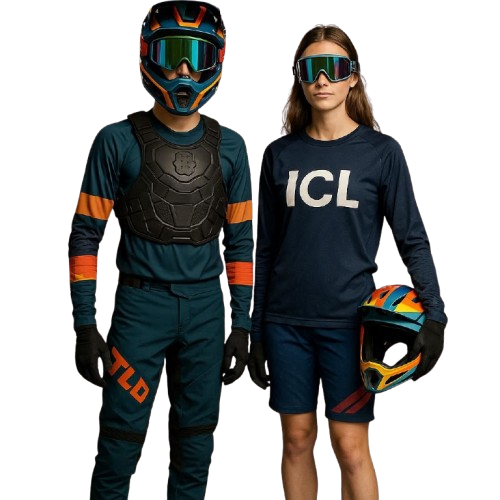
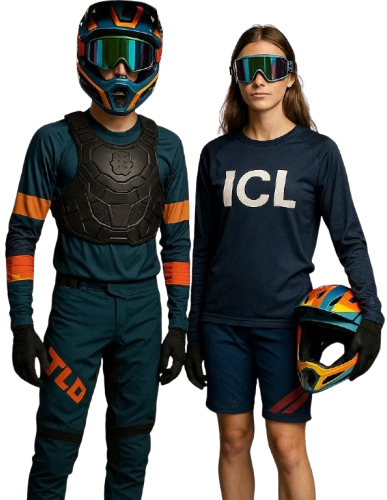
ok

diff --git a/road.html b/road.html
@@ -92,7 +92,7 @@
 			</header>
 
 			<!-- Main Wrapper -->
-			<div class="wrapper style3" style="position: relative; padding-bottom: 300px;">
+			<div class="wrapper style3" style="position: relative; padding-bottom: 290px;">
 				<div class="overlay"></div>
 				<div class="inner" style="position: relative;">
 					<!-- About Road & Indoor -->
@@ -116,18 +116,18 @@
 						Membership is essential as it provides access to subsidised club kit and opportunities like a
 						summer trip abroad.
 					</p>
-					<img src="images/icl-racing-portrait2-removebg-preview.png" alt="We want you — MTB" style="
-      position: absolute;
-      
-      right: 0%;
-      max-height: 400px;
-      max-width: 100%;
-      width: auto;
-	  height: auto;
-      z-index: 100;
+					<img src="images/icl-racing-portrait2-removebg-preview.png" 
+     alt="AI Generated Image. Bing Image Creator 08/2025. College Boy and Girl in matching ICL Road Racing Kit. Studio Full Body Portrait." 
+     style="
+       position: absolute;
+       right: 20px; /* Abstand von der rechten Seite */
+       max-height: 400px;
+       max-width: 90%; /* Verhindert Abschneiden auf kleinen Screens */
+       width: auto;
+       height: auto;
+       z-index: 100;
+     ">
 
-	  
-    ">
 
 
 				</div>
@@ -187,18 +187,18 @@
   <article>
     <a href="gravel.html" class="image">
       <!-- Replace with your own gravel image -->
-      <img src="images/gravel-teaser3.jpg" alt="Gravel road through woodland" />
+      <img src="images/gravel-teaser3.jpg" alt="AI Generated Pic. Bing Image Creator 08/2025. Gravel Bike leaning on a tree in green english landscape" />
     </a>
     <h3 class="major">Gravel &amp; Tour</h3>
     <p>Leave the tarmac behind — explore mixed terrain, scenic gravel loops, and multi-day bikepacking with fellow riders.</p>
-    <a href="gravel.html" class="special">Explore Gravel &amp; Bikepacking</a>
+    <a href="gravel.html" class="special">Explore Gravel &amp; Tour</a>
   </article>
 
   <!-- Teaser: Club Wear & Gear -->
   <article>
     <a href="gear.html" class="image">
       <!-- Replace with your club kit photo -->
-      <img src="images/team-wear-teaser.jpg" alt="Club jersey and cycling kit" />
+      <img src="images/team-wear-teaser.jpg" alt="AI Generated Pic. Bing Image Creator 08/2025. Road cycling kit and Hoody" />
     </a>
     <h3 class="major">Club Wear &amp; Gear</h3>
     <p>Ride in style with our club kit and essentials — exclusive member pricing and seasonal drops.</p>

diff --git a/offroad.html b/offroad.html
@@ -92,7 +92,7 @@
 			</header>
 
 			<!-- Main Wrapper -->
-			<div class="wrapper style4" style="position: relative; padding-bottom: 300px;">
+			<div class="wrapper style4" style="position: relative; padding-bottom: 310px;">
 				<div class="overlay"></div>
 				<div class="inner" style="position: relative;">
 					<h3 class="major">Mountain Biking</h3>
@@ -114,16 +114,16 @@
 						latest trail plans.
 					</p>
 
-					<img src="images/mtb-portrait-removebg-preview.png" alt="We want you — MTB" style="
-      position: absolute;
-      
-      right: 0%;
-      max-height: 400px;
-      max-width: 100%;
-      width: auto;
-	  height: auto;
-      z-index: 50;
-    ">
+					<img src="images/mtb-portrait-removebg-preview.png" alt="AI Generated Image. Bing Image Creator 08/2025. College Boy and Girl in stylish MTB Downhill Outfit. Studio Full Body Portrait." 
+     style="
+       position: absolute;
+       right: 20px; /* Abstand von der rechten Seite */
+       max-height: 420px;
+       max-width: 90%; /* Verhindert Abschneiden auf kleinen Screens */
+       width: auto;
+       height: auto;
+       z-index: 100;
+     ">
 
 				</div>
 			</div>
@@ -169,18 +169,18 @@
 				<!-- Teaser: Gravel & Touring -->
 				<article>
 					<a href="gravel.html" class="image">
-						<img src="images/gravel-teaser4.jpg" alt="Gravel trail winding through a forest" />
+						<img src="images/gravel-teaser4.jpg" alt="AI Generated Pic. Bing Image Creator 08/2025. Gravel Bike laying on Gravel Road." />
 					</a>
 					<h3 class="major">Gravel & Touring</h3>
 					<p>Explore new paths: tackle mixed terrain, discover hidden trails, and embark on short bikepacking
 						adventures.</p>
-					<a href="gravel.html" class="special">Discover Gravel & Bikepacking</a>
+					<a href="gravel.html" class="special">Explore Gravel &amp; Tour</a>
 				</article>
 
 				<!-- Teaser: Club Wear & Gear -->
 				<article>
 					<a href="gear.html" class="image">
-						<img src="images/mtb-wear-teaser.jpg" alt="Cycling club jersey and gear neatly arranged" />
+						<img src="images/mtb-wear-teaser.jpg" alt="AI Generated Pic. Bing Image Creator 08/2025. MTB Jersey and Hoodie" />
 					</a>
 					<h3 class="major">Club Wear & Gear</h3>
 					<p>Our club collection blends style and practicality – perfect for every ride, from casual spins to

diff --git a/index.html b/index.html
@@ -117,7 +117,7 @@
 			<section id="one" class="wrapper first spotlight style1">
 				<div class="overlay"></div>
 				<div class="inner">
-					<a href="club.html" class="image"><img src="images/pic01b.jpg" alt="" loading="eager" /></a>
+					<a href="club.html" class="image"><img src="images/pic01b.jpg" alt="ICCC MTB Group Pic" loading="eager" /></a>
 					<div class="content">
 						<h2 class="major">About the Club</h2>
 						<p>
@@ -138,7 +138,7 @@
 				<div class="overlay-alt"></div>
 				
 				<div class="inner">
-					<a href="road.html" class="image"><img src="images/road.jpg" alt="" loading="eager" /></a>
+					<a href="road.html" class="image"><img src="images/road.jpg" alt="ICCC Road Group Ride" loading="eager" /></a>
 					<div class="content">
 						<h2 class="major">Road & Indoor Biking</h2>
 						<p>
@@ -161,7 +161,7 @@
 			<section id="three" class="wrapper spotlight style3">
 				<div class="overlay"></div>
 				<div class="inner">
-					<a href="offroad.html" class="image"><img src="images/pic03b.jpg" alt="" loading="eager" /></a>
+					<a href="offroad.html" class="image"><img src="images/pic03b.jpg" alt="ICCC Mountainbiker Downhill Racing" loading="eager" /></a>
 					<div class="content">
 						<h2 class="major">MTB & Adventure</h2>
 						<p>

diff --git a/gravel.html b/gravel.html
@@ -93,7 +93,7 @@
 			</header>
 
 			<!-- Main Wrapper -->
-			<div class="wrapper style8" style="position: relative; padding-bottom: 290px;">
+			<div class="wrapper style8" style="position: relative; padding-bottom: 350px;">
 				<div class="overlay"></div>
 				<div class="inner" style="position: relative;">
 					
@@ -118,15 +118,15 @@
 						routes, and participate in club-organised events — even if we don't yet run official rides
 						regularly.
 					</p>
-					<img src="images/gravel-portrait-removebg-preview.png" alt="We want you — MTB" style="
-      position: absolute;
-      
-      right: 0%;
-      max-height: 400px;
-      max-width: 100%;
-      width: auto;
-	  height: auto;
-      z-index: 100;
+					<img src="images/gravel-portrait-removebg-preview.png" alt="AI Generated Image. Bing Image Creator 08/2025. College Boy and Girl in stylish Gravel or Bikepacking Outfit. Studio Full Body Portrait." 
+     style="
+       position: absolute;
+       right: 20px; /* Abstand von der rechten Seite */
+       max-height: 460px;
+       max-width: 90%; /* Verhindert Abschneiden auf kleinen Screens */
+       width: auto;
+       height: auto;
+       z-index: 100;
 
 	  
     ">

diff --git a/gear.html b/gear.html
@@ -119,7 +119,7 @@
 
 
 
-					<img src="images/team-portrait-removebg2.png" alt="We want you — MTB" style="
+					<img src="images/team-portrait-removebg2.png" alt="AI Generated Pic. Bing Image Creator 08/2025. Group Studio Portrait of People Presenting Road Bike Kit, MTB Jersey and Hoody. Navy colour with ICL Logo on chest." style="
       position: absolute;
 right: 0;
 max-width: 100%;

diff --git a/club.html b/club.html
@@ -109,7 +109,7 @@
 					</p>
 					<div class="col-12">
 						<span class="image fit">
-							<img src="images/grouppicture-preview.png" alt="We want you — MTB">
+							<img src="images/grouppicture-preview.png" alt="ICCC Group Picture">
 						</span>
 
 					</div>
